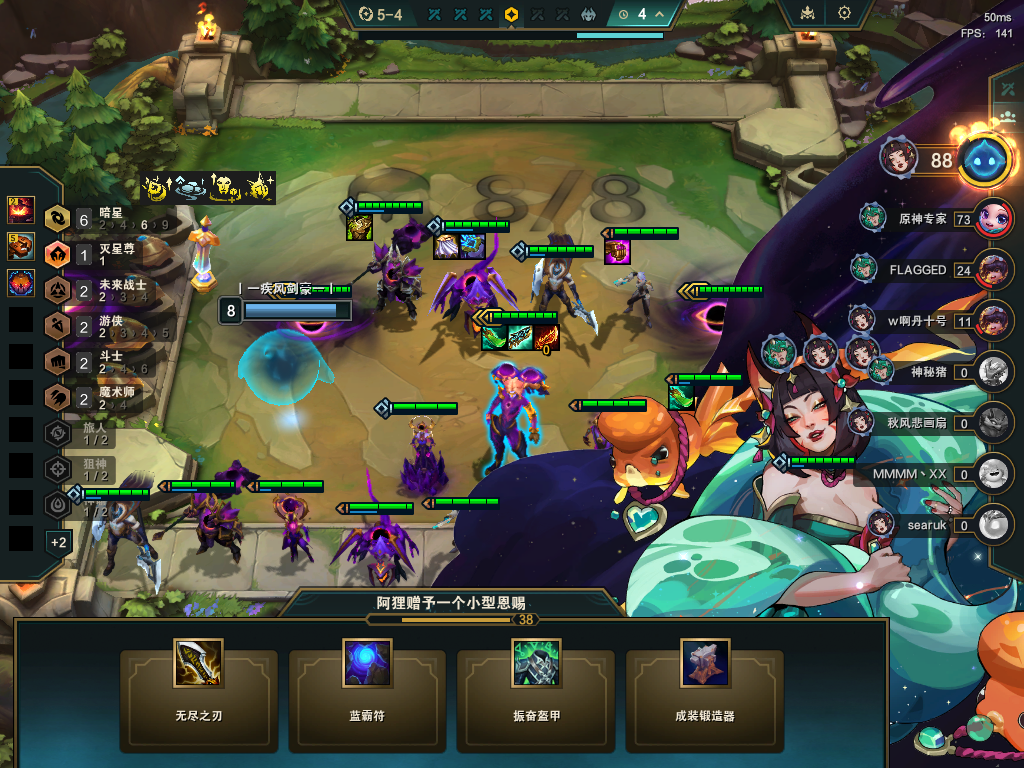
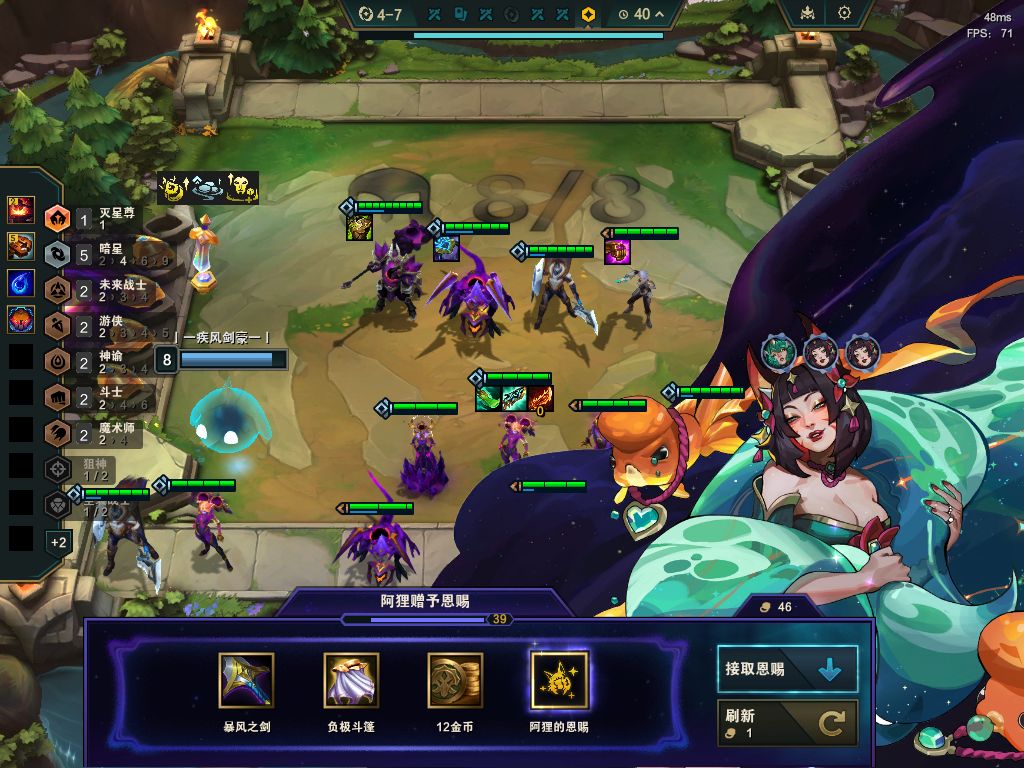
feat: 新增S17星神赛季点位配置

diff --git a/src-backend/TFTProtocol.ts b/src-backend/TFTProtocol.ts
@@ -428,6 +428,23 @@ export const hexSlot = {   //  x+=295
     SLOT_2: { x: 510, y: 410 },
     SLOT_3: { x: 805, y: 410 },
 }
+//  星神选择槽位（S17 星神赛季专属）
+export const starGodSlot = { 
+    SLOT_1: { x: 370, y: 440 },
+    SLOT_2: { x: 650, y: 440 },
+}
+//  大恩赐点击点位（S17 星神赛季专属）
+//  游戏内 4-7 阶段会给玩家一个"大恩赐"奖励，在屏幕底部偏右位置会出现可点击图标
+export const grandBlessingPoint = { x: 790, y: 670 }
+//  小型恩赐装备选择槽位（S17 星神赛季专属）
+//  游戏内 5-4、6-4 阶段会给玩家"小型恩赐"奖励：屏幕下方弹出 4 个装备候选，玩家需四选一
+//  四个槽位水平排列（y 相同，x 依次递增），代表 4 张装备卡牌的点击坐标
+export const minorBlessingSlot = {
+    SLOT_1: { x: 200, y: 700 },
+    SLOT_2: { x: 370, y: 700 },
+    SLOT_3: { x: 540, y: 700 },
+    SLOT_4: { x: 700, y: 700 },
+}
 //  选秀站位，为离自己最近的棋子位置。
 export const sharedDraftPoint = { x: 530, y: 400 }
 
